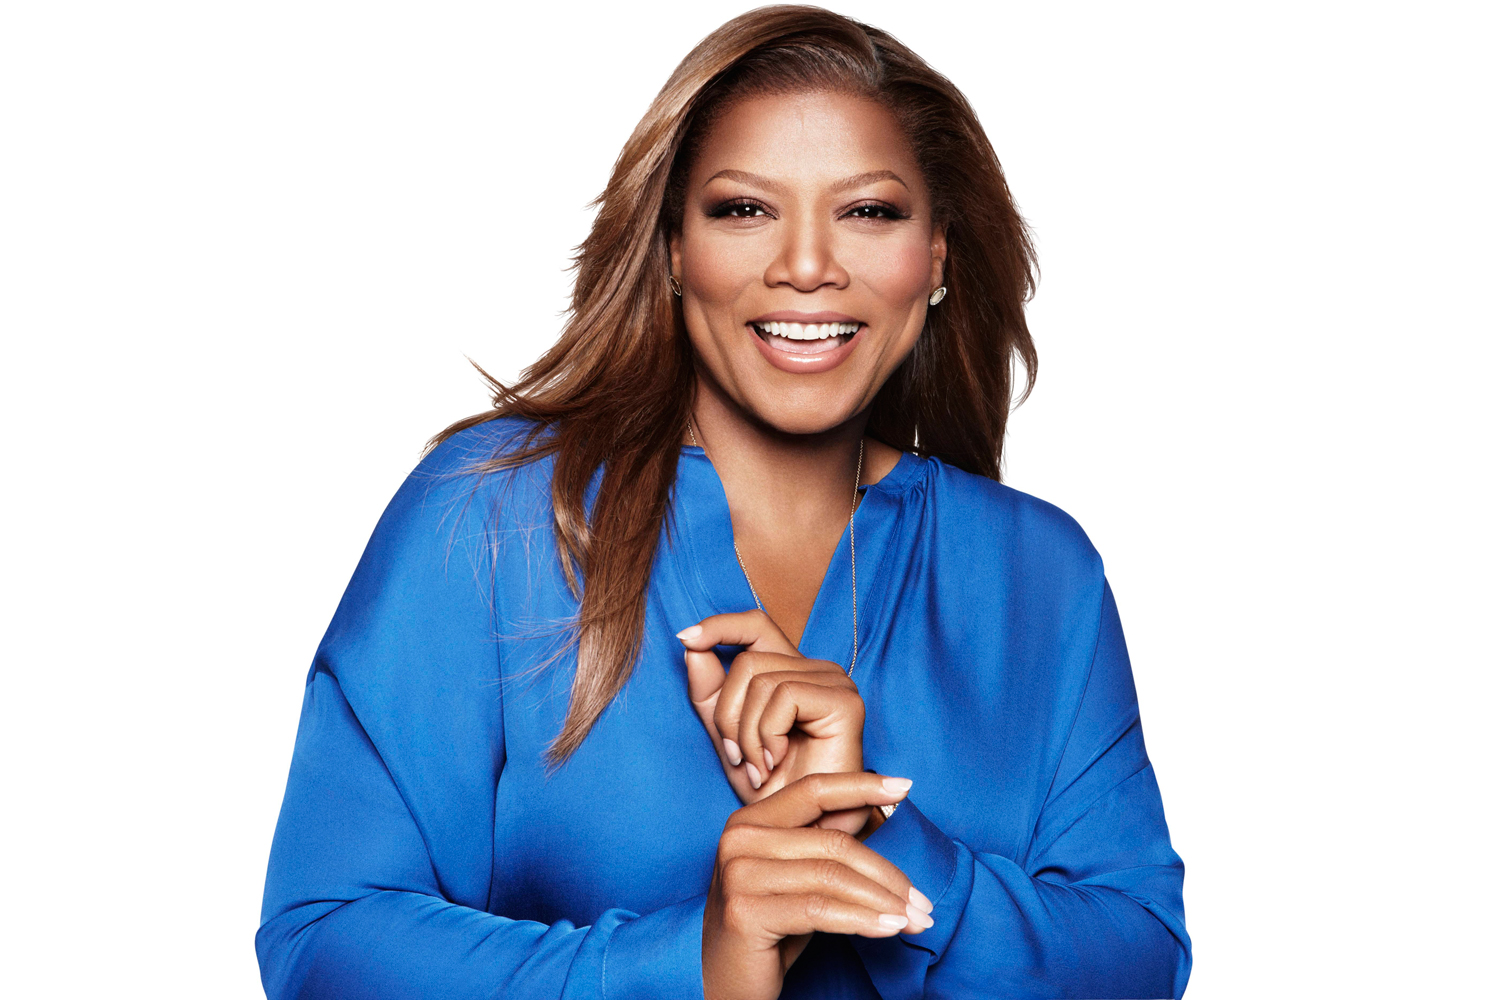
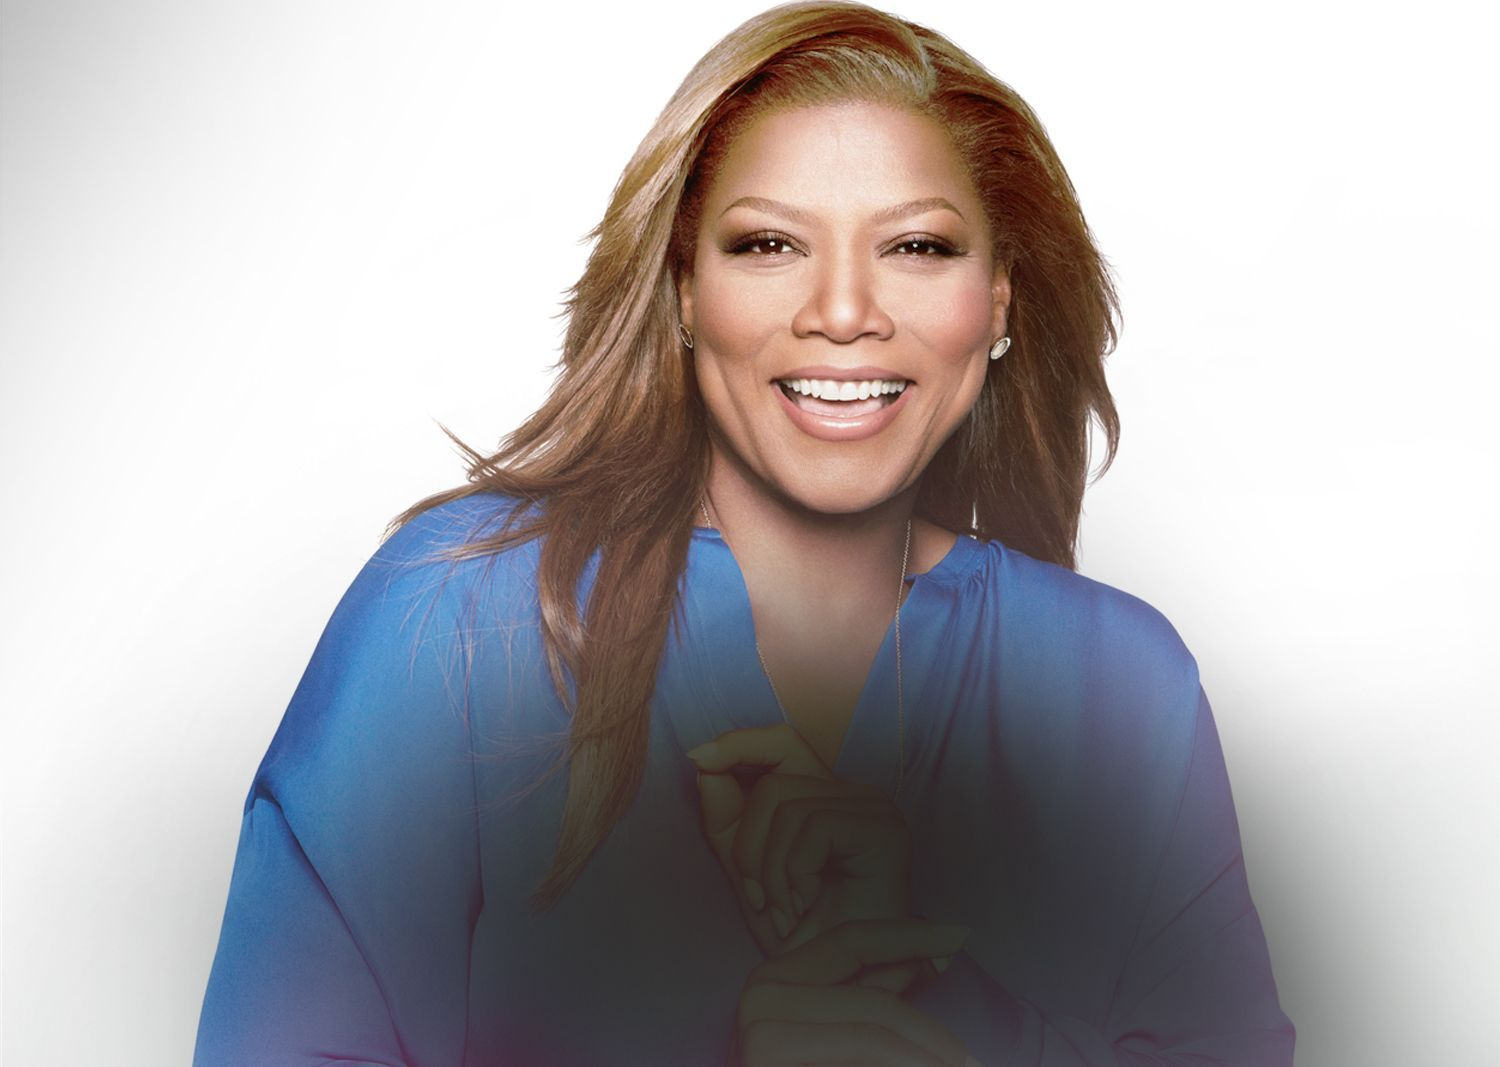
updated carousel slides

diff --git a/static/css/base.css b/static/css/base.css
@@ -498,8 +498,24 @@ body.latifah .filter {
     position: relative;
 }
 
-.swipe .info-bg {
-    background: url('/images/bokeh.png') center bottom no-repeat;
+.swipe #a .info-bg {
+    background: url('/images/1_overlay.png') center bottom no-repeat;
+    background-size: 100%;
+    position: relative;
+    height: 100%;
+    margin-top: -90px;
+}
+
+.swipe #b .info-bg {
+    background: none;
+    background-size: 100%;
+    position: relative;
+    height: 100%;
+    margin-top: -90px;
+}
+
+.swipe #c .info-bg {
+    background: none;
     background-size: 100%;
     position: relative;
     height: 100%;
